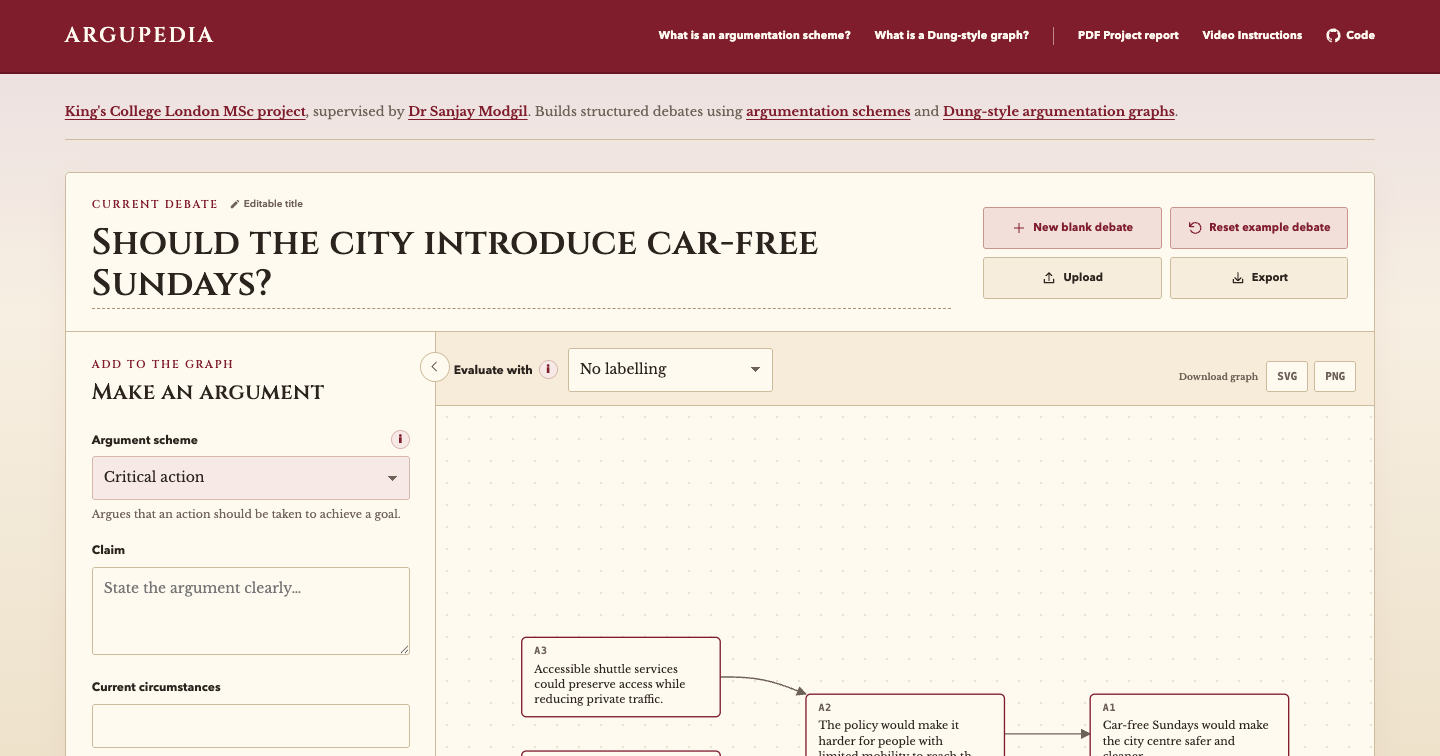
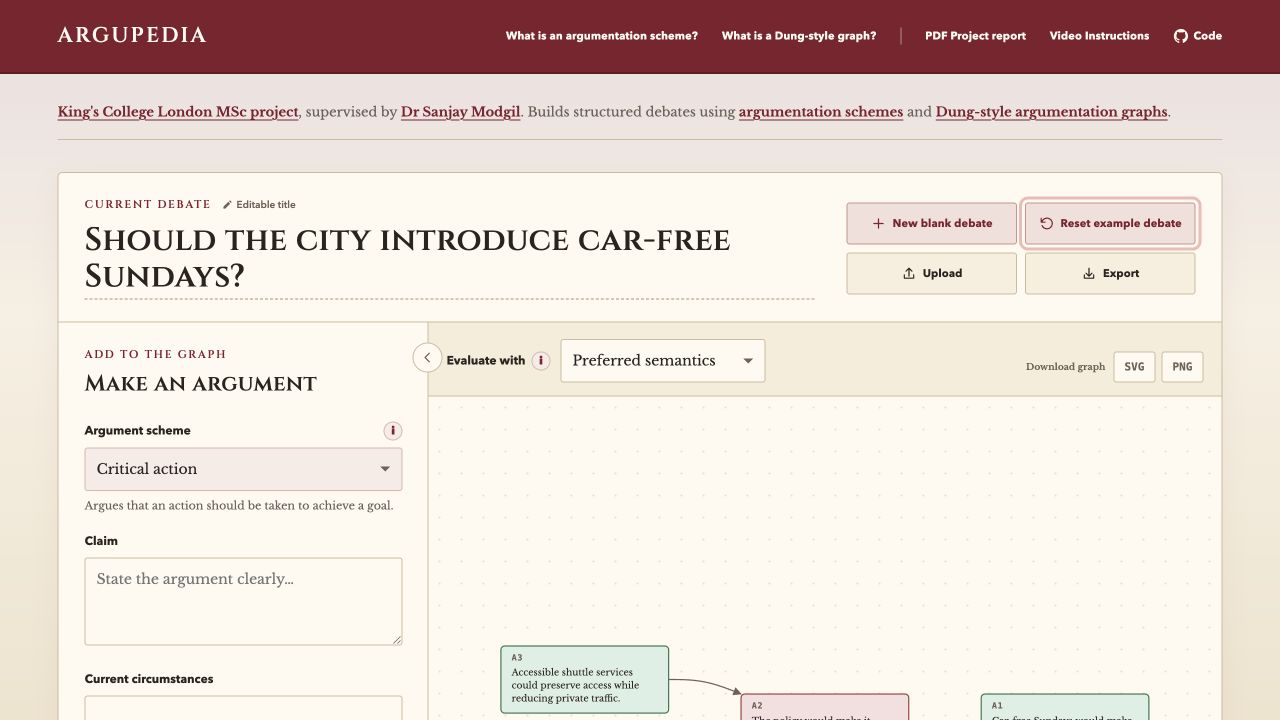
Refresh Argupedia portfolio screenshots

diff --git a/html/portfolio/argupedia.html b/html/portfolio/argupedia.html
@@ -67,7 +67,7 @@
 
         <figure class="portfolio-figure figure-constrained">
           <img src="../../images/argupedia/argupedia-labelled-graph.png" alt="Argupedia debate graph under preferred semantics, with accepted arguments in green and a rejected argument in red" loading="lazy" />
-          <figcaption>Preferred semantics applied to the example debate: accepted, rejected and undecided labels remain tied to the graph structure</figcaption>
+          <figcaption>Preferred semantics applied to the example debate: accepted and rejected labels remain tied to the graph structure</figcaption>
         </figure>
       </section>
 
